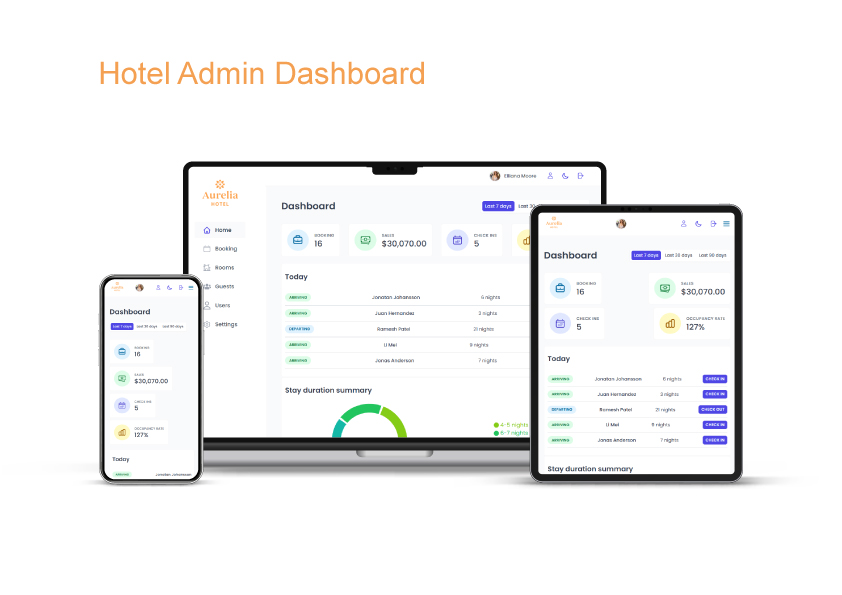
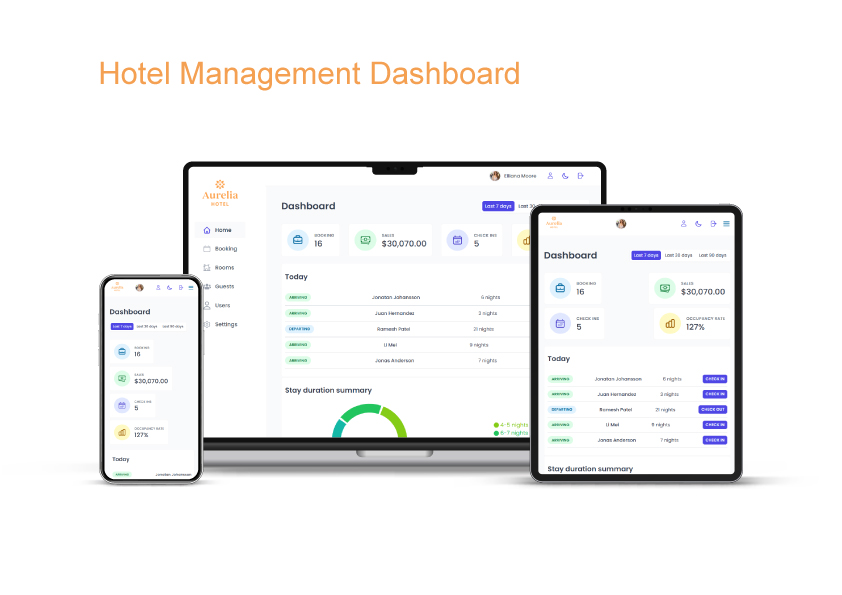
Update README files

Changed region(s): [[0.2162, 0.0908, 0.6176, 0.1513]]

diff --git a/readme.md b/readme.md
@@ -2,23 +2,23 @@
 
 A full-stack hotel reservation platform composed of two separate React applications:
 
-- Hotel Admin Dashboard : hotel staff can manage cabins, bookings, guests, and hotel settings
+- Hotel Management Dashboard : hotel staff can manage cabins, bookings, guests, and hotel settings
 
-- Hotel reservation platform : guests can browse cabins and make/manage reservations
+- Hotel Booking Platform : guests can browse cabins and make/manage reservations
 
 ## 🔗 Links
 
-- Hotel Admin Dashboard :
+- Hotel Management Dashboard :
 
-- Hotel reservation platform :
+- Hotel Booking Platform :
 
 ## 📸 Screenshots
 
-![Alt Text](assets/admin.jpg)
+![Alt Text](assets/aurelia.gif)
 
 ## ✨ Features
 
-**Customer**
+**Booking**
 
 - Create, edit, and cancel reservations
 - View cabin details and pricing
@@ -27,7 +27,7 @@ A full-stack hotel reservation platform composed of two separate React applicati
 - Breakfast option
 - Browse cabins
 
-**Admin**
+**Dashboard**
 
 - Protected routes & authentication
 - Dashboard & booking statistics
@@ -51,7 +51,7 @@ A full-stack hotel reservation platform composed of two separate React applicati
 
 ## 🗄 Technical Architecture
 
-**Customer**
+**Booking**
 
 - Guests browse available cabins and view their details
 - The data service retrieves cabin information and hotel settings from Supabase
@@ -61,7 +61,7 @@ A full-stack hotel reservation platform composed of two separate React applicati
 - Supabase stores and retrieves booking and guest data
 - Next.js renders the updated pages and reservation information
 
-**Admin**
+**Dashboard**
 
 - Hotel staff sign in through Supabase Authentication
 - Protected routes restrict access to authenticated users
@@ -108,8 +108,8 @@ A full-stack hotel reservation platform composed of two separate React applicati
 ```
 
 Aurelia-hotel/
-│ ├── customer/
-│ └── admin/
+│ ├── admin/
+│ └── customer/
 ├── LICENSE
 ├── README.md
 └── .gitignore

diff --git a/customer/README.md b/customer/README.md
@@ -1,4 +1,4 @@
-# 📦 Hotel reservation platform
+# 📦 Hotel Booking Platform
 
 A full-stack hotel reservation platform where guests can browse cabins and make/manage reservations
 
@@ -6,7 +6,7 @@ A full-stack hotel reservation platform where guests can browse cabins and make/
 
 ## 📸 Screenshots
 
-![Alt Text](assets/screenshot.png)
+![Alt Text](assets/customer.jpg)
 
 ## ✨ Features
 

diff --git a/Admin/README.md b/Admin/README.md
@@ -1,4 +1,4 @@
-# 📦 Hotel Admin Dashboard
+# 📦 Hotel Management Dashboard
 
 A full-stack hotel management dashboard where hotel staff can manage cabins, bookings, guests, and hotel settings
 
